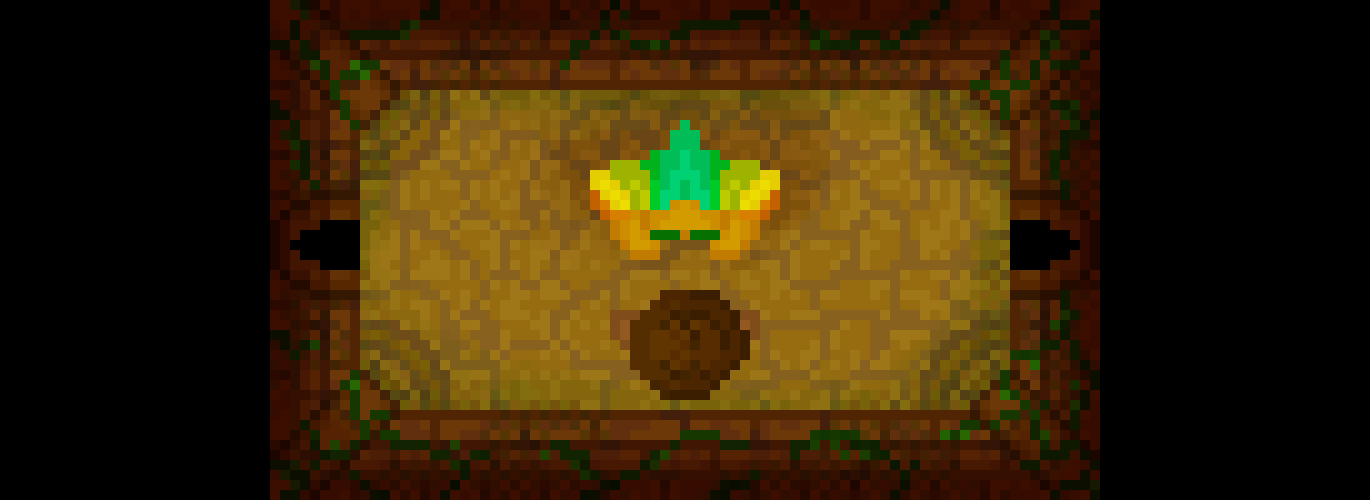
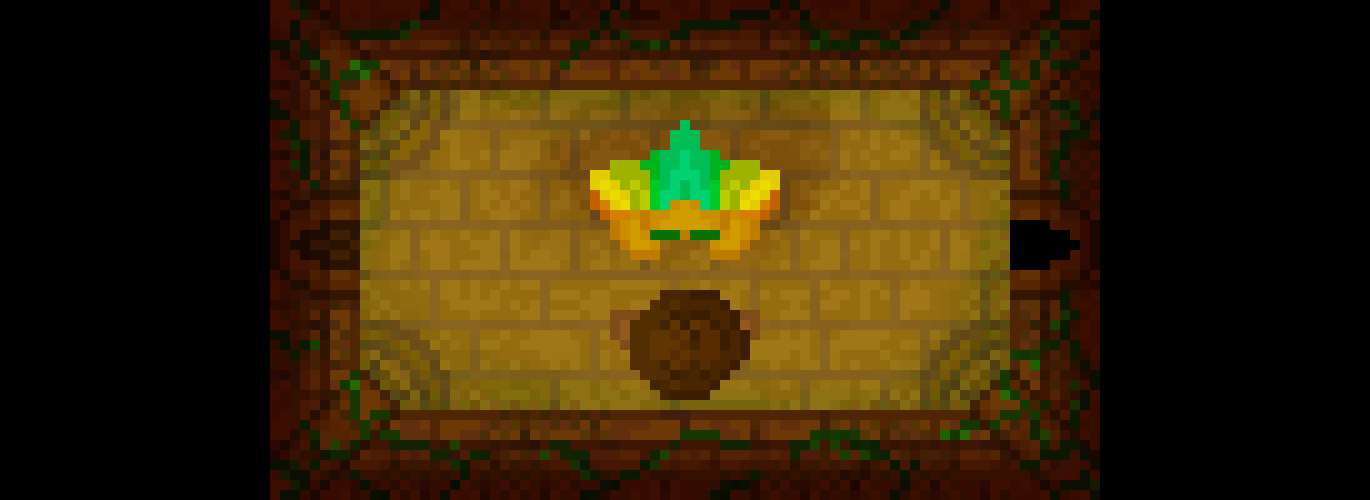
Questions i rum + U RUM

diff --git a/WorldOfZuul/src/worldofzuul/domain/rooms/Rooms.java b/WorldOfZuul/src/worldofzuul/domain/rooms/Rooms.java
@@ -1,6 +1,5 @@
 package worldofzuul.domain.rooms;
 
-import worldofzuul.command.CommandWord;
 import worldofzuul.domain.objects.Bonus;
 import worldofzuul.domain.objects.Item;
 import worldofzuul.domain.objects.Key;
@@ -44,7 +43,7 @@ public class Rooms {
                 + "treasures. You now stand before the possibly greatest treasure to ever see the light of day. Will you"
                 + "succeed in finding the treasure or will you succumb to the dangers of the temple. It is up to you!", "Rooms/StartRoom.png");
 
-        f1_A1 = new Room("You’re standing in a dark room.", "Rooms/F1_A1.png");
+        f1_A1 = new Room("You’re standing in a dark room.", "Rooms/F1_A1.png", "Rooms/F1_A1U.png");
         f1_B1 = new Room("The door to the outside is sealed shut.\n"
                 + "A statue is standing in the middle of the room, it’s eyes starts to glow and it utters: “This ancient temple\n"
                 + "contains many secret treasures, but dangers lurk within, many have tried, but none have succeeded in\n"
@@ -63,7 +62,7 @@ public class Rooms {
         //Second floor rooms
         f2_A1 = new Room("", "Rooms/F2_A1.png");
         f2_B1 = new Room("You feel your soul connecting with the gemstones in the floor. The way forward is deeper and darker than before.", "Rooms/F2_B1.png");
-        f2_C1 = new Room("You’re standing in a dark room.", "Rooms/F2_C1.png");
+        f2_C1 = new Room("You’re standing in a dark room.", "Rooms/F2_C1.png", "Rooms/F2_C1U.png");
 
         f2_A2 = new Room("You see a lever high up on the wall, it is out of your reach", "Rooms/F2_A2.png");
         f2_B2 = new Room("There seems to be a dart trap in this room, but another poor soul activated it before you", "Rooms/F2_B2.png");
@@ -72,7 +71,7 @@ public class Rooms {
 
         f2_A3 = new Room("You’re standing in a dark room.", "Rooms/F2_A3.png", "Rooms/F2_A3U.png");
         f2_B3 = new Room("", "Rooms/F2_B3.png");
-        f2_C3 = new Room("The doors around you are locked, answer this puzzle correct to continue through.", "Rooms/F2_C3.png");
+        f2_C3 = new Room("The doors around you are locked, answer this puzzle correct to continue through.", "Rooms/F2_C3.png", "Rooms/F2_C3U.png");
         f2_D3 = new Room("You see a button on the other side of a large gap, it is out of your reach.", "Rooms/F2_D3.png");
 
         f2_A4 = new Room("You see a torch hanging on the wall, do you want to pick it up?", "Rooms/F2_A4.png");
@@ -81,27 +80,27 @@ public class Rooms {
         f2_D4 = new Room("You spot a gas mask on the corpse of a dead Nazi soldier.", "Rooms/F2_D4.png");
 
         f2_A5 = new Room("The only way forward is over the large gap. You see a branch sturdy enough to hold your weight.", "Rooms/F2_A5.png");
-        f2_B5 = new Room("The door in front of you is locked, answer this puzzle correct to continue through.", "Rooms/F2_B5.png");
+        f2_B5 = new Room("The door in front of you is locked, answer this puzzle correct to continue through.", "Rooms/F2_B5.png", "Rooms/F2_B5U.png");
         f2_C5 = new Room("You smell gas coming from the door to the east", "Rooms/F2_C5.png");
         f2_D5 = new Room("The room is full of gas. Fortunately you have your gas mask on, and you find a valuable treasure on the ground", "Rooms/F2_D5.png");
 
         //Third floor rooms
-        f3_A1 = new Room("You stand in a dark room", "Rooms/F3_A1.png");
+        f3_A1 = new Room("You stand in a dark room", "Rooms/F3_A1.png", "Rooms/F3_A1U.png");
         f3_B1 = new Room("You feel your soul connect with the large gemstone once again.", "Rooms/F3_B1.png");
-        f3_C1 = new Room("The door in front of you is locked, answer this puzzle correct to continue through.", "Rooms/F3_C1.png");
-        f3_D1 = new Room("You are presented with a riddle, answer it to move on.", "Rooms/F3_D1.png");
+        f3_C1 = new Room("The door in front of you is locked, answer this puzzle correct to continue through.", "Rooms/F3_C1.png", "Rooms/F3_C1U.png");
+        f3_D1 = new Room("You are presented with a riddle, answer it to move on.", "Rooms/F3_D1.png", "Rooms/F3_D1U.png");
         f3_E1 = new Room("You feel the large gemstone connect with your soul once again., \"Rooms/F3_E1.png\""
                 + "");
         f3_F1 = new Room("", "Rooms/F3_F1.png");
 
         f3_A2 = new Room("", "Rooms/F3_A2.png");
         f3_B2 = new Room("", "Rooms/F3_B2.png");
-        f3_C2 = new Room("You’re stuck in a room, and have to answer this riddle to move on.", "Rooms/F3_C2.png");
+        f3_C2 = new Room("You’re stuck in a room, and have to answer this riddle to move on.", "Rooms/F3_C2.png", "Rooms/F3_C2U.png");
         f3_D2 = new Room("You spot a green key", "Rooms/F3_D2.png");
         f3_E2 = new Room("", "Rooms/F3_E2.png");
         f3_F2 = new Room("", "Rooms/F3_F2.png");
 
-        f3_A3 = new Room("You stand in a dark room", "Rooms/F3_A3.png");
+        f3_A3 = new Room("You stand in a dark room", "Rooms/F3_A3.png", "Rooms/F3_A3U.png");
         f3_B3 = new Room("", "Rooms/F3_B3.png");
         f3_C3 = new Room("", "Rooms/F3_C3.png");
         f3_D3 = new Room("You see a pair of guns lying on the floor.", "Rooms/F3_D3.png");
@@ -120,7 +119,7 @@ public class Rooms {
         f3_C5 = new Room("", "Rooms/F3_C5.png");
         f3_D5 = new Room("", "Rooms/F3_D5.png");
         f3_E5 = new Room("", "Rooms/F3_E5.png");
-        f3_F5 = new Room("You’re stuck in a room, and have to answer this riddle to move on.", "Rooms/F3_F5.png");
+        f3_F5 = new Room("You’re stuck in a room, and have to answer this riddle to move on.", "Rooms/F3_F5.png", "Rooms/F3_F5U.png");
 
         f3_A6 = new Room("", "Rooms/F3_A6.png");
         f3_B6 = new Room("", "Rooms/F3_B6.png");
@@ -426,8 +425,31 @@ public class Rooms {
         //Anbringer spørgsmål i rum og låser døre
         f1_B2.setQuestion(0);
         f1_B2.findDoor("east").lock();
+        
+        f2_C3.setQuestion(1);
+        f2_C3.findDoor("east").lock();
+        f2_C3.findDoor("north").lock();
+        f2_C3.findDoor("west").lock();
+        
+        f2_B5.setQuestion(2);
+        f2_B5.findDoor("west").lock();
+        
+        f3_C1.setQuestion(3);
+        f3_C1.findDoor("north").lock();
+            
+        f3_C2.setQuestion(4);
+        f3_C2.findDoor("north").lock();
+        f3_C2.findDoor("west").lock();
+        
+        f3_D1.setQuestion(5);
+        f3_D1.findDoor("north").lock();
+        
+        f3_F5.setQuestion(6);
+        f3_F5.findDoor("north").lock();
+        f3_F5.findDoor("south").lock();
 
-        //
+        f3_D7.setQuestion(7);
+        f3_D7.findDoor("north").lock();
     }
 
     public static Room getCurrentRoom() {

diff --git a/WorldOfZuul/src/worldofzuul/domain/challenges/Puzzles.java b/WorldOfZuul/src/worldofzuul/domain/challenges/Puzzles.java
@@ -38,7 +38,7 @@ public class Puzzles {
     private static final String p5C = "Armageddon";
     private static final String p5D = "The World";
 
-    private static final String p6 = "I'm sometimes full, but I never overflow, I typically show myself when it dark . What Am I?";//ask the question
+    private static final String p6 = "I'm sometimes full, but I never overflow, I typically show myself when it's dark . What Am I?";//ask the question
     private static final String p6A = "The Moon";
     private static final String p6B = "A Man";
     private static final String p6C = "A Glass";
